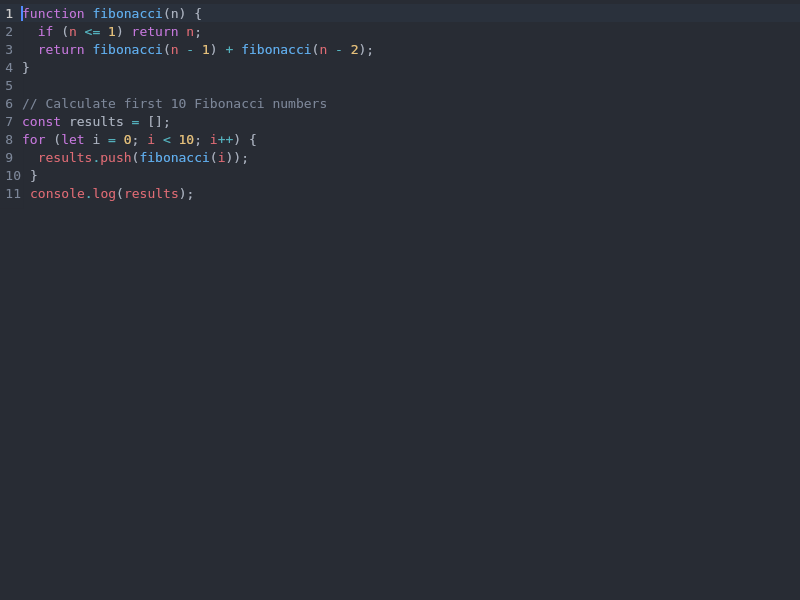
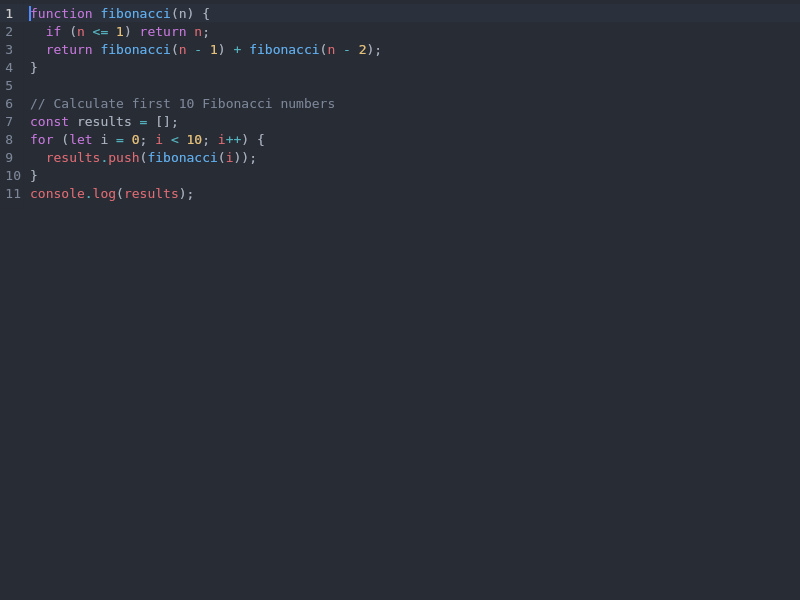
Fix gutter width alignment for consistent line padding
Apply a fixed width to GutterView based on the max digit count so all
line number gutters share a uniform width. Previously each gutter sized
to its own content, causing the code column to shift depending on line
number width.

Changed region(s): [[0.0312, 0.15, 0.4062, 0.27], [0.0312, 0.0, 0.4688, 0.09]]

diff --git a/view/src/commonMain/kotlin/com/monkopedia/kodemirror/view/EditorViewComposable.kt b/view/src/commonMain/kotlin/com/monkopedia/kodemirror/view/EditorViewComposable.kt
@@ -27,6 +27,7 @@ import androidx.compose.foundation.layout.defaultMinSize
 import androidx.compose.foundation.layout.fillMaxSize
 import androidx.compose.foundation.layout.fillMaxWidth
 import androidx.compose.foundation.layout.padding
+import androidx.compose.foundation.layout.width
 import androidx.compose.foundation.lazy.LazyColumn
 import androidx.compose.foundation.lazy.items
 import androidx.compose.foundation.lazy.rememberLazyListState
@@ -283,7 +284,8 @@ fun EditorView(state: EditorState, onUpdate: (Transaction) -> Unit, modifier: Mo
                                 if (hasGutters) {
                                     GutterView(
                                         view = view,
-                                        lineNumber = item.lineNumber
+                                        lineNumber = item.lineNumber,
+                                        modifier = Modifier.width(gutterWidthDp)
                                     )
                                 }
                                 Box(
